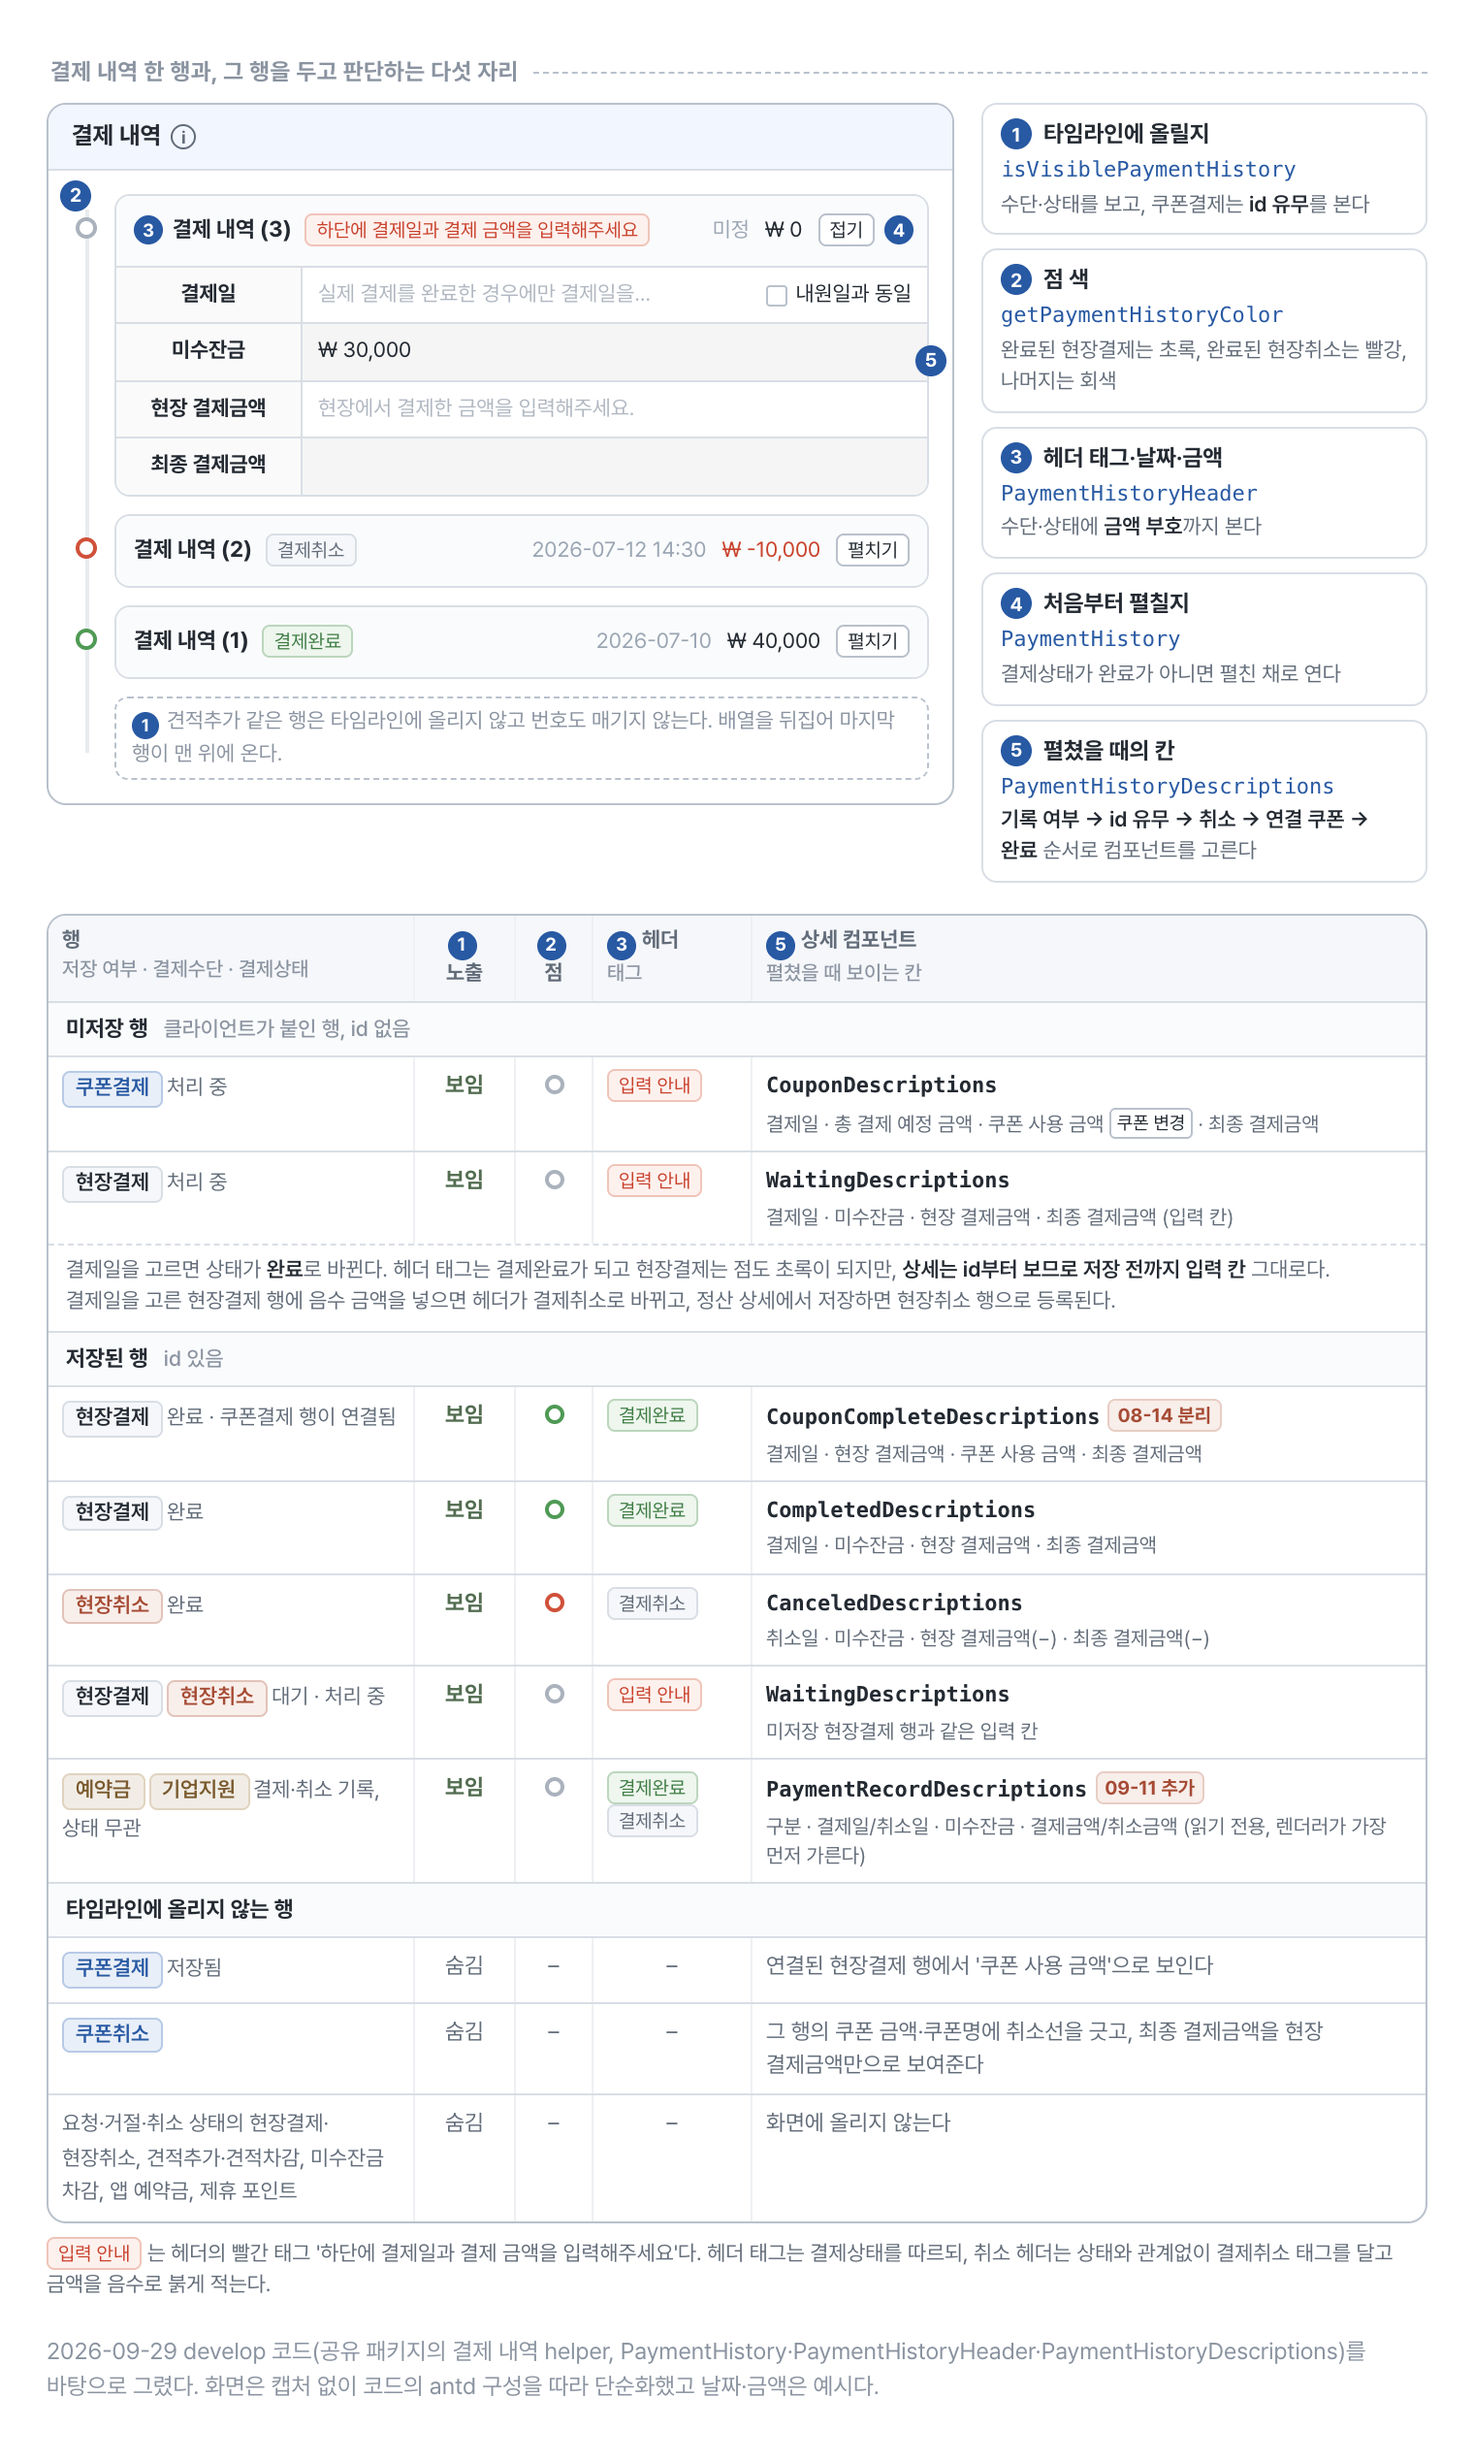
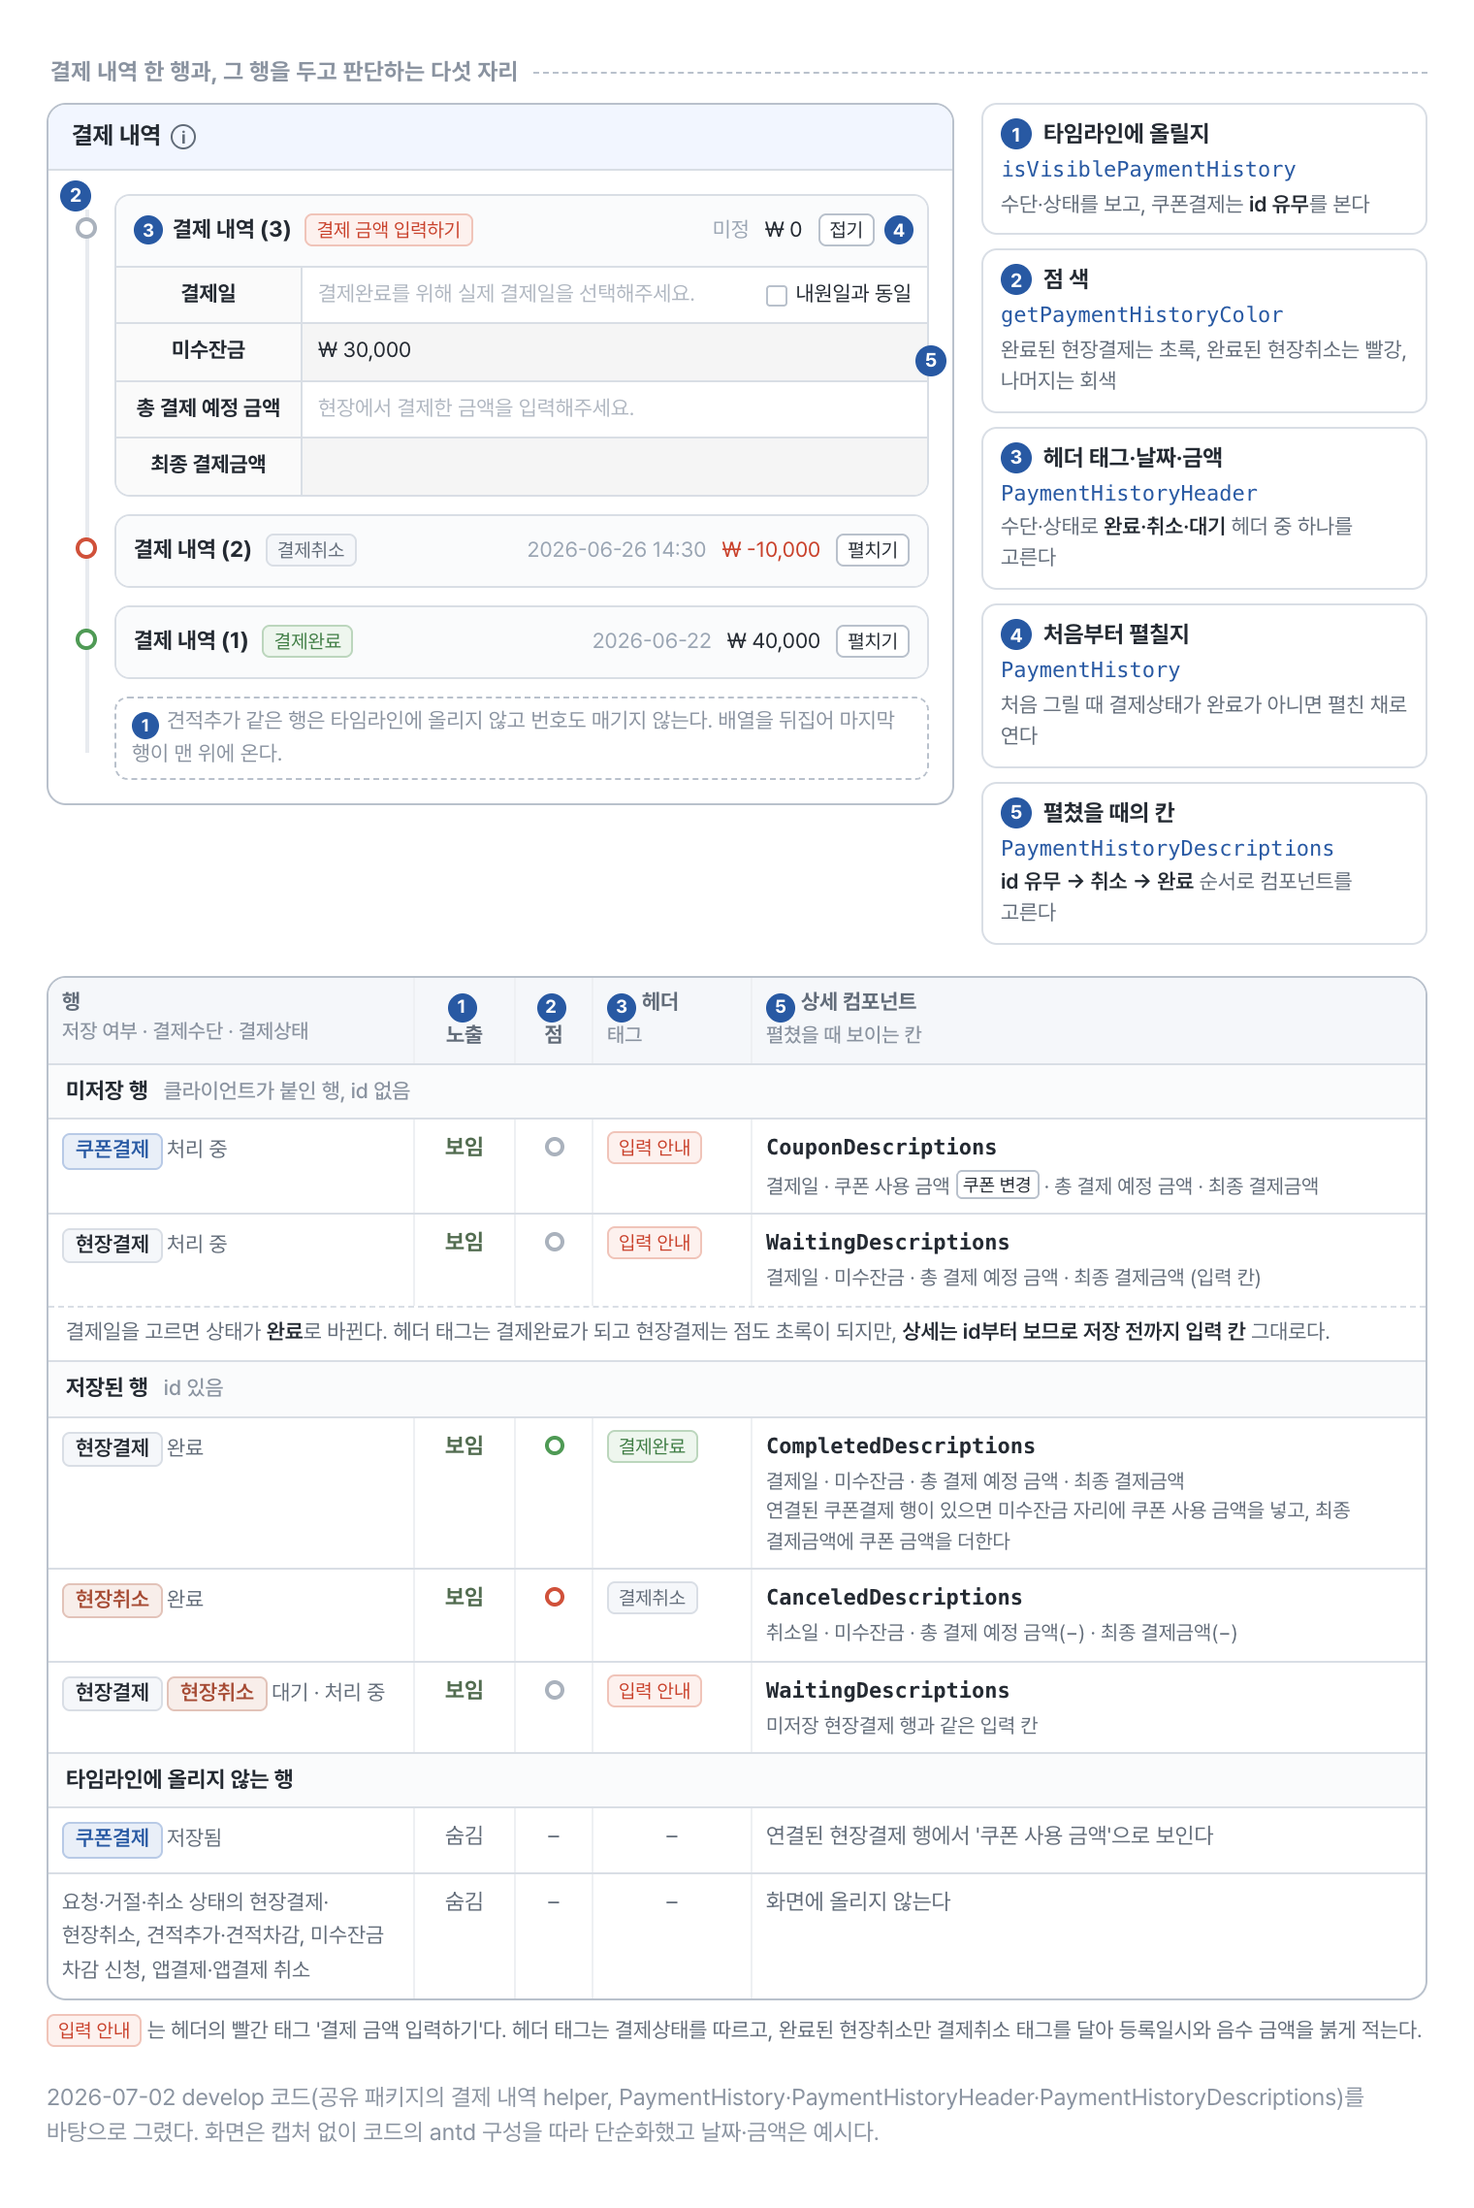
docs(blog): 결제 내역 판단 자리 그림에서 7월 이후 행·컴포넌트를 뺀다

diff --git a/blog/assets/figures/payment-history/src/02-row-states.html b/blog/assets/figures/payment-history/src/02-row-states.html
@@ -71,12 +71,10 @@
   .m { display: inline-block; font-size: 11px; font-weight: 600; padding: 0 6px; border-radius: 4px; border: 1px solid var(--line); background: var(--soft); color: var(--ink); margin: 1px 2px 1px 0; white-space: nowrap; }
   .m.coupon { background: var(--blue-soft); color: var(--blue); border-color: var(--blue-line); }
   .m.cancel { background: var(--coral-soft); color: var(--coral); border-color: #e2c3b9; }
-  .m.rec { background: #f1ede6; color: #7a5a2e; border-color: #e0d3bf; }
   .st { color: var(--sub); font-size: 11px; }
   .comp { font-family: 'JetBrains Mono', 'SF Mono', Menlo, monospace; font-size: 11px; font-weight: 700; color: var(--ink); }
   .lbls { margin-top: 2px; font-size: 10.5px; color: var(--sub); line-height: 1.45; }
   .lbls .btn-in { display: inline-block; font-size: 9.5px; border: 1px solid var(--line-strong); border-radius: 3px; padding: 0 3px; color: var(--ink); vertical-align: 1px; }
-  .since { display: inline-block; font-size: 10px; font-weight: 700; color: var(--coral); background: var(--coral-soft); border: 1px solid #e8cdc4; border-radius: 4px; padding: 0 4px; margin-left: 4px; vertical-align: 1px; white-space: nowrap; }
   .gnote { border-top: 1px dashed var(--line); padding: 5px 9px 6px; font-size: 11px; color: var(--sub); line-height: 1.5; background: #fff; }
   .gnote b { color: var(--ink); font-weight: 600; }
   .muted > div { color: var(--sub); }
@@ -95,24 +93,24 @@
         <span class="pin mk" style="right:-9px; top:78px">5</span>
         <div class="col">
           <div class="ch">
-            <span class="mk sm">3</span><b>결제 내역 (3)</b><span class="t red">하단에 결제일과 결제 금액을 입력해주세요</span>
+            <span class="mk sm">3</span><b>결제 내역 (3)</b><span class="t red">결제 금액 입력하기</span>
             <span class="r">미정<span class="amt">₩ 0</span><span class="xbtn">접기</span><span class="mk sm">4</span></span>
           </div>
           <div class="cb">
-            <div class="dr"><span>결제일</span><span>실제 결제를 완료한 경우에만 결제일을…<span class="cbx">내원일과 동일</span></span></div>
+            <div class="dr"><span>결제일</span><span>결제완료를 위해 실제 결제일을 선택해주세요.<span class="cbx">내원일과 동일</span></span></div>
             <div class="dr"><span>미수잔금</span><span class="fill">₩ 30,000</span></div>
-            <div class="dr"><span>현장 결제금액</span><span>현장에서 결제한 금액을 입력해주세요.</span></div>
+            <div class="dr"><span>총 결제 예정 금액</span><span>현장에서 결제한 금액을 입력해주세요.</span></div>
             <div class="dr"><span>최종 결제금액</span><span class="fill"></span></div>
           </div>
         </div>
       </div>
       <div class="it">
         <span class="dot red"></span>
-        <div class="col"><div class="ch"><b>결제 내역 (2)</b><span class="t gray">결제취소</span><span class="r">2026-07-12 14:30<span class="amt neg">₩ -10,000</span><span class="xbtn">펼치기</span></span></div></div>
+        <div class="col"><div class="ch"><b>결제 내역 (2)</b><span class="t gray">결제취소</span><span class="r">2026-06-26 14:30<span class="amt neg">₩ -10,000</span><span class="xbtn">펼치기</span></span></div></div>
       </div>
       <div class="it">
         <span class="dot green"></span>
-        <div class="col"><div class="ch"><b>결제 내역 (1)</b><span class="t green">결제완료</span><span class="r">2026-07-10<span class="amt">₩ 40,000</span><span class="xbtn">펼치기</span></span></div></div>
+        <div class="col"><div class="ch"><b>결제 내역 (1)</b><span class="t green">결제완료</span><span class="r">2026-06-22<span class="amt">₩ 40,000</span><span class="xbtn">펼치기</span></span></div></div>
       </div>
       <div class="hidden-note"><span class="mk" style="width:14px;height:14px;font-size:9px;margin-right:4px;vertical-align:-2px">1</span>견적추가 같은 행은 타임라인에 올리지 않고 번호도 매기지 않는다. 배열을 뒤집어 마지막 행이 맨 위에 온다.</div>
     </div>
@@ -121,9 +119,9 @@
   <div class="calls">
     <div class="call"><div class="call-h"><span class="mk">1</span>타임라인에 올릴지</div><code>isVisiblePaymentHistory</code><p>수단·상태를 보고, 쿠폰결제는 <b>id 유무</b>를 본다</p></div>
     <div class="call"><div class="call-h"><span class="mk">2</span>점 색</div><code>getPaymentHistoryColor</code><p>완료된 현장결제는 초록, 완료된 현장취소는 빨강, 나머지는 회색</p></div>
-    <div class="call"><div class="call-h"><span class="mk">3</span>헤더 태그·날짜·금액</div><code>PaymentHistoryHeader</code><p>수단·상태에 <b>금액 부호</b>까지 본다</p></div>
-    <div class="call"><div class="call-h"><span class="mk">4</span>처음부터 펼칠지</div><code>PaymentHistory</code><p>결제상태가 완료가 아니면 펼친 채로 연다</p></div>
-    <div class="call"><div class="call-h"><span class="mk">5</span>펼쳤을 때의 칸</div><code>PaymentHistoryDescriptions</code><p><b>기록 여부 → id 유무 → 취소 → 연결 쿠폰 → 완료</b> 순서로 컴포넌트를 고른다</p></div>
+    <div class="call"><div class="call-h"><span class="mk">3</span>헤더 태그·날짜·금액</div><code>PaymentHistoryHeader</code><p>수단·상태로 <b>완료·취소·대기</b> 헤더 중 하나를 고른다</p></div>
+    <div class="call"><div class="call-h"><span class="mk">4</span>처음부터 펼칠지</div><code>PaymentHistory</code><p>처음 그릴 때 결제상태가 완료가 아니면 펼친 채로 연다</p></div>
+    <div class="call"><div class="call-h"><span class="mk">5</span>펼쳤을 때의 칸</div><code>PaymentHistoryDescriptions</code><p><b>id 유무 → 취소 → 완료</b> 순서로 컴포넌트를 고른다</p></div>
   </div>
 </div>
 
@@ -141,46 +139,34 @@
     <div><span class="m coupon">쿠폰결제</span><span class="st">처리 중</span></div>
     <div class="c yes">보임</div><div class="c"><span class="d gray"></span></div>
     <div><span class="t red">입력 안내</span></div>
-    <div><span class="comp">CouponDescriptions</span><div class="lbls">결제일 · 총 결제 예정 금액 · 쿠폰 사용 금액 <span class="btn-in">쿠폰 변경</span> · 최종 결제금액</div></div>
+    <div><span class="comp">CouponDescriptions</span><div class="lbls">결제일 · 쿠폰 사용 금액 <span class="btn-in">쿠폰 변경</span> · 총 결제 예정 금액 · 최종 결제금액</div></div>
   </div>
   <div class="tr">
     <div><span class="m">현장결제</span><span class="st">처리 중</span></div>
     <div class="c yes">보임</div><div class="c"><span class="d gray"></span></div>
     <div><span class="t red">입력 안내</span></div>
-    <div><span class="comp">WaitingDescriptions</span><div class="lbls">결제일 · 미수잔금 · 현장 결제금액 · 최종 결제금액 (입력 칸)</div></div>
+    <div><span class="comp">WaitingDescriptions</span><div class="lbls">결제일 · 미수잔금 · 총 결제 예정 금액 · 최종 결제금액 (입력 칸)</div></div>
   </div>
-  <div class="gnote">결제일을 고르면 상태가 <b>완료</b>로 바뀐다. 헤더 태그는 결제완료가 되고 현장결제는 점도 초록이 되지만, <b>상세는 id부터 보므로 저장 전까지 입력 칸</b> 그대로다. 결제일을 고른 현장결제 행에 음수 금액을 넣으면 헤더가 결제취소로 바뀌고, 정산 상세에서 저장하면 현장취소 행으로 등록된다.</div>
+  <div class="gnote">결제일을 고르면 상태가 <b>완료</b>로 바뀐다. 헤더 태그는 결제완료가 되고 현장결제는 점도 초록이 되지만, <b>상세는 id부터 보므로 저장 전까지 입력 칸</b> 그대로다.</div>
 
   <div class="grp">저장된 행<span>id 있음</span></div>
-  <div class="tr">
-    <div><span class="m">현장결제</span><span class="st">완료 · 쿠폰결제 행이 연결됨</span></div>
-    <div class="c yes">보임</div><div class="c"><span class="d green"></span></div>
-    <div><span class="t green">결제완료</span></div>
-    <div><span class="comp">CouponCompleteDescriptions</span><span class="since">08-14 분리</span><div class="lbls">결제일 · 현장 결제금액 · 쿠폰 사용 금액 · 최종 결제금액</div></div>
-  </div>
   <div class="tr">
     <div><span class="m">현장결제</span><span class="st">완료</span></div>
     <div class="c yes">보임</div><div class="c"><span class="d green"></span></div>
     <div><span class="t green">결제완료</span></div>
-    <div><span class="comp">CompletedDescriptions</span><div class="lbls">결제일 · 미수잔금 · 현장 결제금액 · 최종 결제금액</div></div>
+    <div><span class="comp">CompletedDescriptions</span><div class="lbls">결제일 · 미수잔금 · 총 결제 예정 금액 · 최종 결제금액<br>연결된 쿠폰결제 행이 있으면 미수잔금 자리에 쿠폰 사용 금액을 넣고, 최종 결제금액에 쿠폰 금액을 더한다</div></div>
   </div>
   <div class="tr">
     <div><span class="m cancel">현장취소</span><span class="st">완료</span></div>
     <div class="c yes">보임</div><div class="c"><span class="d red"></span></div>
     <div><span class="t gray">결제취소</span></div>
-    <div><span class="comp">CanceledDescriptions</span><div class="lbls">취소일 · 미수잔금 · 현장 결제금액(−) · 최종 결제금액(−)</div></div>
+    <div><span class="comp">CanceledDescriptions</span><div class="lbls">취소일 · 미수잔금 · 총 결제 예정 금액(−) · 최종 결제금액(−)</div></div>
   </div>
   <div class="tr">
     <div><span class="m">현장결제</span><span class="m cancel">현장취소</span><span class="st">대기 · 처리 중</span></div>
     <div class="c yes">보임</div><div class="c"><span class="d gray"></span></div>
     <div><span class="t red">입력 안내</span></div>
     <div><span class="comp">WaitingDescriptions</span><div class="lbls">미저장 현장결제 행과 같은 입력 칸</div></div>
-  </div>
-  <div class="tr">
-    <div><span class="m rec">예약금</span><span class="m rec">기업지원</span><span class="st">결제·취소 기록, 상태 무관</span></div>
-    <div class="c yes">보임</div><div class="c"><span class="d gray"></span></div>
-    <div><span class="t green">결제완료</span> <span class="t gray">결제취소</span></div>
-    <div><span class="comp">PaymentRecordDescriptions</span><span class="since">09-11 추가</span><div class="lbls">구분 · 결제일/취소일 · 미수잔금 · 결제금액/취소금액 (읽기 전용, 렌더러가 가장 먼저 가른다)</div></div>
   </div>
 
   <div class="grp">타임라인에 올리지 않는 행</div>
@@ -190,17 +176,12 @@
     <div>연결된 현장결제 행에서 '쿠폰 사용 금액'으로 보인다</div>
   </div>
   <div class="tr muted">
-    <div><span class="m coupon">쿠폰취소</span></div>
-    <div class="c no">숨김</div><div class="c no">–</div><div class="c no">–</div>
-    <div>그 행의 쿠폰 금액·쿠폰명에 취소선을 긋고, 최종 결제금액을 현장 결제금액만으로 보여준다</div>
-  </div>
-  <div class="tr muted">
-    <div><span class="st">요청·거절·취소 상태의 현장결제·현장취소, 견적추가·견적차감, 미수잔금 차감, 앱 예약금, 제휴 포인트</span></div>
+    <div><span class="st">요청·거절·취소 상태의 현장결제·현장취소, 견적추가·견적차감, 미수잔금 차감 신청, 앱결제·앱결제 취소</span></div>
     <div class="c no">숨김</div><div class="c no">–</div><div class="c no">–</div>
     <div>화면에 올리지 않는다</div>
   </div>
 </div>
-<p class="legend"><span class="t red">입력 안내</span> 는 헤더의 빨간 태그 '하단에 결제일과 결제 금액을 입력해주세요'다. 헤더 태그는 결제상태를 따르되, 취소 헤더는 상태와 관계없이 결제취소 태그를 달고 금액을 음수로 붉게 적는다.</p>
+<p class="legend"><span class="t red">입력 안내</span> 는 헤더의 빨간 태그 '결제 금액 입력하기'다. 헤더 태그는 결제상태를 따르고, 완료된 현장취소만 결제취소 태그를 달아 등록일시와 음수 금액을 붉게 적는다.</p>
 
-<p class="foot">2026-09-29 develop 코드(공유 패키지의 결제 내역 helper, PaymentHistory·PaymentHistoryHeader·PaymentHistoryDescriptions)를 바탕으로 그렸다. 화면은 캡처 없이 코드의 antd 구성을 따라 단순화했고 날짜·금액은 예시다.</p>
+<p class="foot">2026-07-02 develop 코드(공유 패키지의 결제 내역 helper, PaymentHistory·PaymentHistoryHeader·PaymentHistoryDescriptions)를 바탕으로 그렸다. 화면은 캡처 없이 코드의 antd 구성을 따라 단순화했고 날짜·금액은 예시다.</p>
 </body></html>
